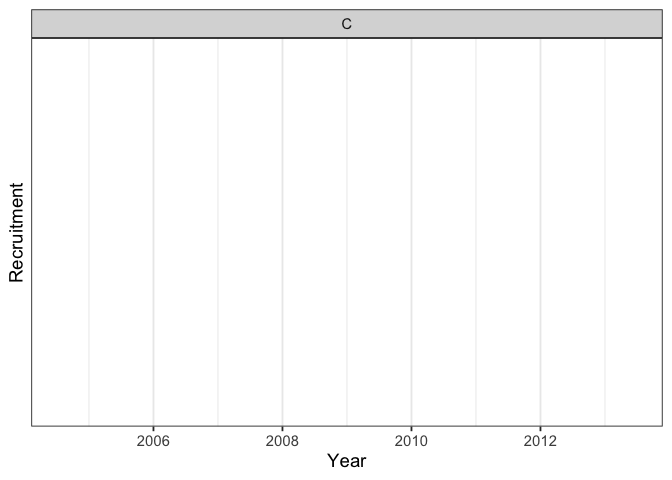
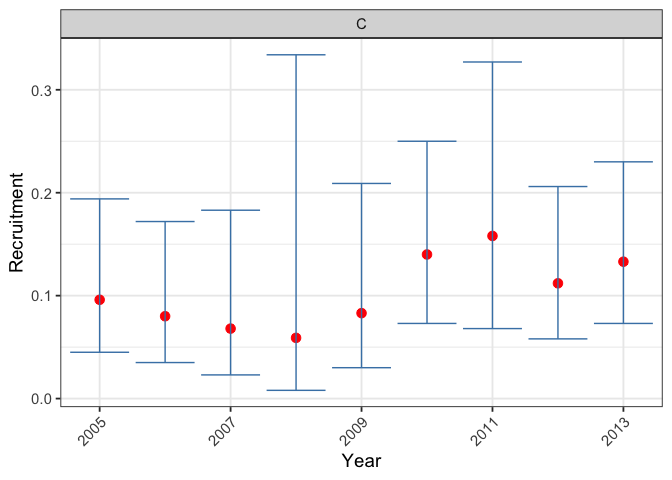
update readme

diff --git a/README.md b/README.md
@@ -6,6 +6,8 @@
 <!-- badges: start -->
 
 [![R-CMD-check](https://github.com/poissonconsulting/bbouretro/actions/workflows/R-CMD-check.yaml/badge.svg)](https://github.com/poissonconsulting/bbouretro/actions/workflows/R-CMD-check.yaml)
+[![Codecov test
+coverage](https://codecov.io/gh/poissonconsulting/bbouretro/branch/main/graph/badge.svg)](https://app.codecov.io/gh/poissonconsulting/bbouretro?branch=main)
 <!-- badges: end -->
 
 ## Introduction
@@ -37,118 +39,60 @@ This is a basic example which shows you how to solve a common problem:
 library(bbouretro)
 library(bboudata)
 
-recruitment_est <- recruitment(bbourecruit_c, pFemales = 0.65, sexratio = 0.5, variance = "binomial") 
-plot_recruitment(recruitment_est)
-#> Warning: Removed 9 rows containing missing values or values outside the scale range
-#> (`geom_point()`).
+recruitment_est <- 
+  bbr_recruitment(
+    bbourecruit_c, 
+    pFemales = 0.65, 
+    sexratio = 0.5, 
+    variance = "binomial"
+)
+bbr_plot_recruitment(recruitment_est)
 ```
 
 <img src="man/figures/README-unnamed-chunk-4-1.png" width="100%" />
 
 ``` r
 
-survival_est <- km_survival(bbousurv_c, MortType = "Total", variance = "Pollock")
-#> Warning in mean.default(.data$Smonth): argument is not numeric or logical:
-#> returning NA
-#> Warning in mean.default(.data$StartTotal): argument is not numeric or logical:
-#> returning NA
-#> Warning in min(.data$StartTotal): no non-missing arguments to min; returning
-#> Inf
-#> Warning in max(.data$StartTotal): no non-missing arguments to max; returning
-#> -Inf
-#> Warning in mean.default(.data$Smonth): argument is not numeric or logical:
-#> returning NA
-#> Warning in mean.default(.data$StartTotal): argument is not numeric or logical:
-#> returning NA
-#> Warning in min(.data$StartTotal): no non-missing arguments to min; returning
-#> Inf
-#> Warning in max(.data$StartTotal): no non-missing arguments to max; returning
-#> -Inf
-#> Warning in mean.default(.data$Smonth): argument is not numeric or logical:
-#> returning NA
-#> Warning in mean.default(.data$StartTotal): argument is not numeric or logical:
-#> returning NA
-#> Warning in min(.data$StartTotal): no non-missing arguments to min; returning
-#> Inf
-#> Warning in max(.data$StartTotal): no non-missing arguments to max; returning
-#> -Inf
-#> Warning in mean.default(.data$Smonth): argument is not numeric or logical:
-#> returning NA
-#> Warning in mean.default(.data$StartTotal): argument is not numeric or logical:
-#> returning NA
-#> Warning in min(.data$StartTotal): no non-missing arguments to min; returning
-#> Inf
-#> Warning in max(.data$StartTotal): no non-missing arguments to max; returning
-#> -Inf
-#> Warning in mean.default(.data$Smonth): argument is not numeric or logical:
-#> returning NA
-#> Warning in mean.default(.data$StartTotal): argument is not numeric or logical:
-#> returning NA
-#> Warning in min(.data$StartTotal): no non-missing arguments to min; returning
-#> Inf
-#> Warning in max(.data$StartTotal): no non-missing arguments to max; returning
-#> -Inf
-#> Warning in mean.default(.data$Smonth): argument is not numeric or logical:
-#> returning NA
-#> Warning in mean.default(.data$StartTotal): argument is not numeric or logical:
-#> returning NA
-#> Warning in min(.data$StartTotal): no non-missing arguments to min; returning
-#> Inf
-#> Warning in max(.data$StartTotal): no non-missing arguments to max; returning
-#> -Inf
-#> Warning in mean.default(.data$Smonth): argument is not numeric or logical:
-#> returning NA
-#> Warning in mean.default(.data$StartTotal): argument is not numeric or logical:
-#> returning NA
-#> Warning in min(.data$StartTotal): no non-missing arguments to min; returning
-#> Inf
-#> Warning in max(.data$StartTotal): no non-missing arguments to max; returning
-#> -Inf
-#> Warning in mean.default(.data$Smonth): argument is not numeric or logical:
-#> returning NA
-#> Warning in mean.default(.data$StartTotal): argument is not numeric or logical:
-#> returning NA
-#> Warning in min(.data$StartTotal): no non-missing arguments to min; returning
-#> Inf
-#> Warning in max(.data$StartTotal): no non-missing arguments to max; returning
-#> -Inf
-#> Warning in mean.default(.data$Smonth): argument is not numeric or logical:
-#> returning NA
-#> Warning in mean.default(.data$StartTotal): argument is not numeric or logical:
-#> returning NA
-#> Warning in min(.data$StartTotal): no non-missing arguments to min; returning
-#> Inf
-#> Warning in max(.data$StartTotal): no non-missing arguments to max; returning
-#> -Inf
-#> Warning in mean.default(.data$Smonth): argument is not numeric or logical:
-#> returning NA
-#> Warning in mean.default(.data$StartTotal): argument is not numeric or logical:
-#> returning NA
-#> Warning in min(.data$StartTotal): no non-missing arguments to min; returning
-#> Inf
-#> Warning in max(.data$StartTotal): no non-missing arguments to max; returning
-#> -Inf
-#> Warning in mean.default(.data$Smonth): argument is not numeric or logical:
-#> returning NA
-#> Warning in mean.default(.data$StartTotal): argument is not numeric or logical:
-#> returning NA
-#> Warning in min(.data$StartTotal): no non-missing arguments to min; returning
-#> Inf
-#> Warning in max(.data$StartTotal): no non-missing arguments to max; returning
-#> -Inf
-plot_survival(survival_est)
+survival_est <- 
+  bbr_km_survival(
+    bbousurv_c,
+    MortType = "Total", 
+    variance = "Pollock"
+  )
+bbr_plot_survival(survival_est)
 ```
 
 <img src="man/figures/README-unnamed-chunk-4-2.png" width="100%" />
 
 ``` r
 
-# TODO turn on when not erroring
-#lambda_est <- lambda_sim(recruitment_est, survival_est)
-#summary <- SummarizeLambda(lambda_est)
-#plot_lambda(lambda_est)
-#plot_lambda_distributions(lambda_est, "C")
+lambda_est <- bbr_lambda_sim(recruitment_est, survival_est)
+summary <- bbr_summarize_lambda(lambda_est)
+summary
+#> # A tibble: 9 × 13
+#>   PopulationName  Year     S     R Lambda SE_Lambda Lambda_LCL Lambda_UCL
+#>   <chr>          <int> <dbl> <dbl>  <dbl>     <dbl>      <dbl>      <dbl>
+#> 1 C               2005 0.832 0.096  0.92      0.051      0.84       1.04 
+#> 2 C               2006 1     0.08   1.09     NA         NA         NA    
+#> 3 C               2007 0.524 0.068  0.562     0.037      0.502      0.652
+#> 4 C               2008 0.824 0.059  0.876     0.123      0.799      1.25 
+#> 5 C               2009 1     0.083  1.09     NA         NA         NA    
+#> 6 C               2010 0.926 0.14   1.08      0.065      0.99       1.23 
+#> 7 C               2011 0.96  0.158  1.14      0.107      1.03       1.44 
+#> 8 C               2012 0.963 0.112  1.08      0.054      1.01       1.20 
+#> 9 C               2013 0.512 0.133  0.591     0.027      0.553      0.657
+#> # ℹ 5 more variables: Prop_LGT1 <dbl>, meanSimSurv <dbl>, meanRsim <dbl>,
+#> #   meanSimLambda <dbl>, medianSimLambda <dbl>
+bbr_plot_lambda(lambda_est)
 ```
+
+<img src="man/figures/README-unnamed-chunk-4-3.png" width="100%" />
+
+``` r
+bbr_plot_lambda_distributions(lambda_est, "C")
+```
+
+<img src="man/figures/README-unnamed-chunk-4-4.png" width="100%" />
 
 ## Contribution
 
